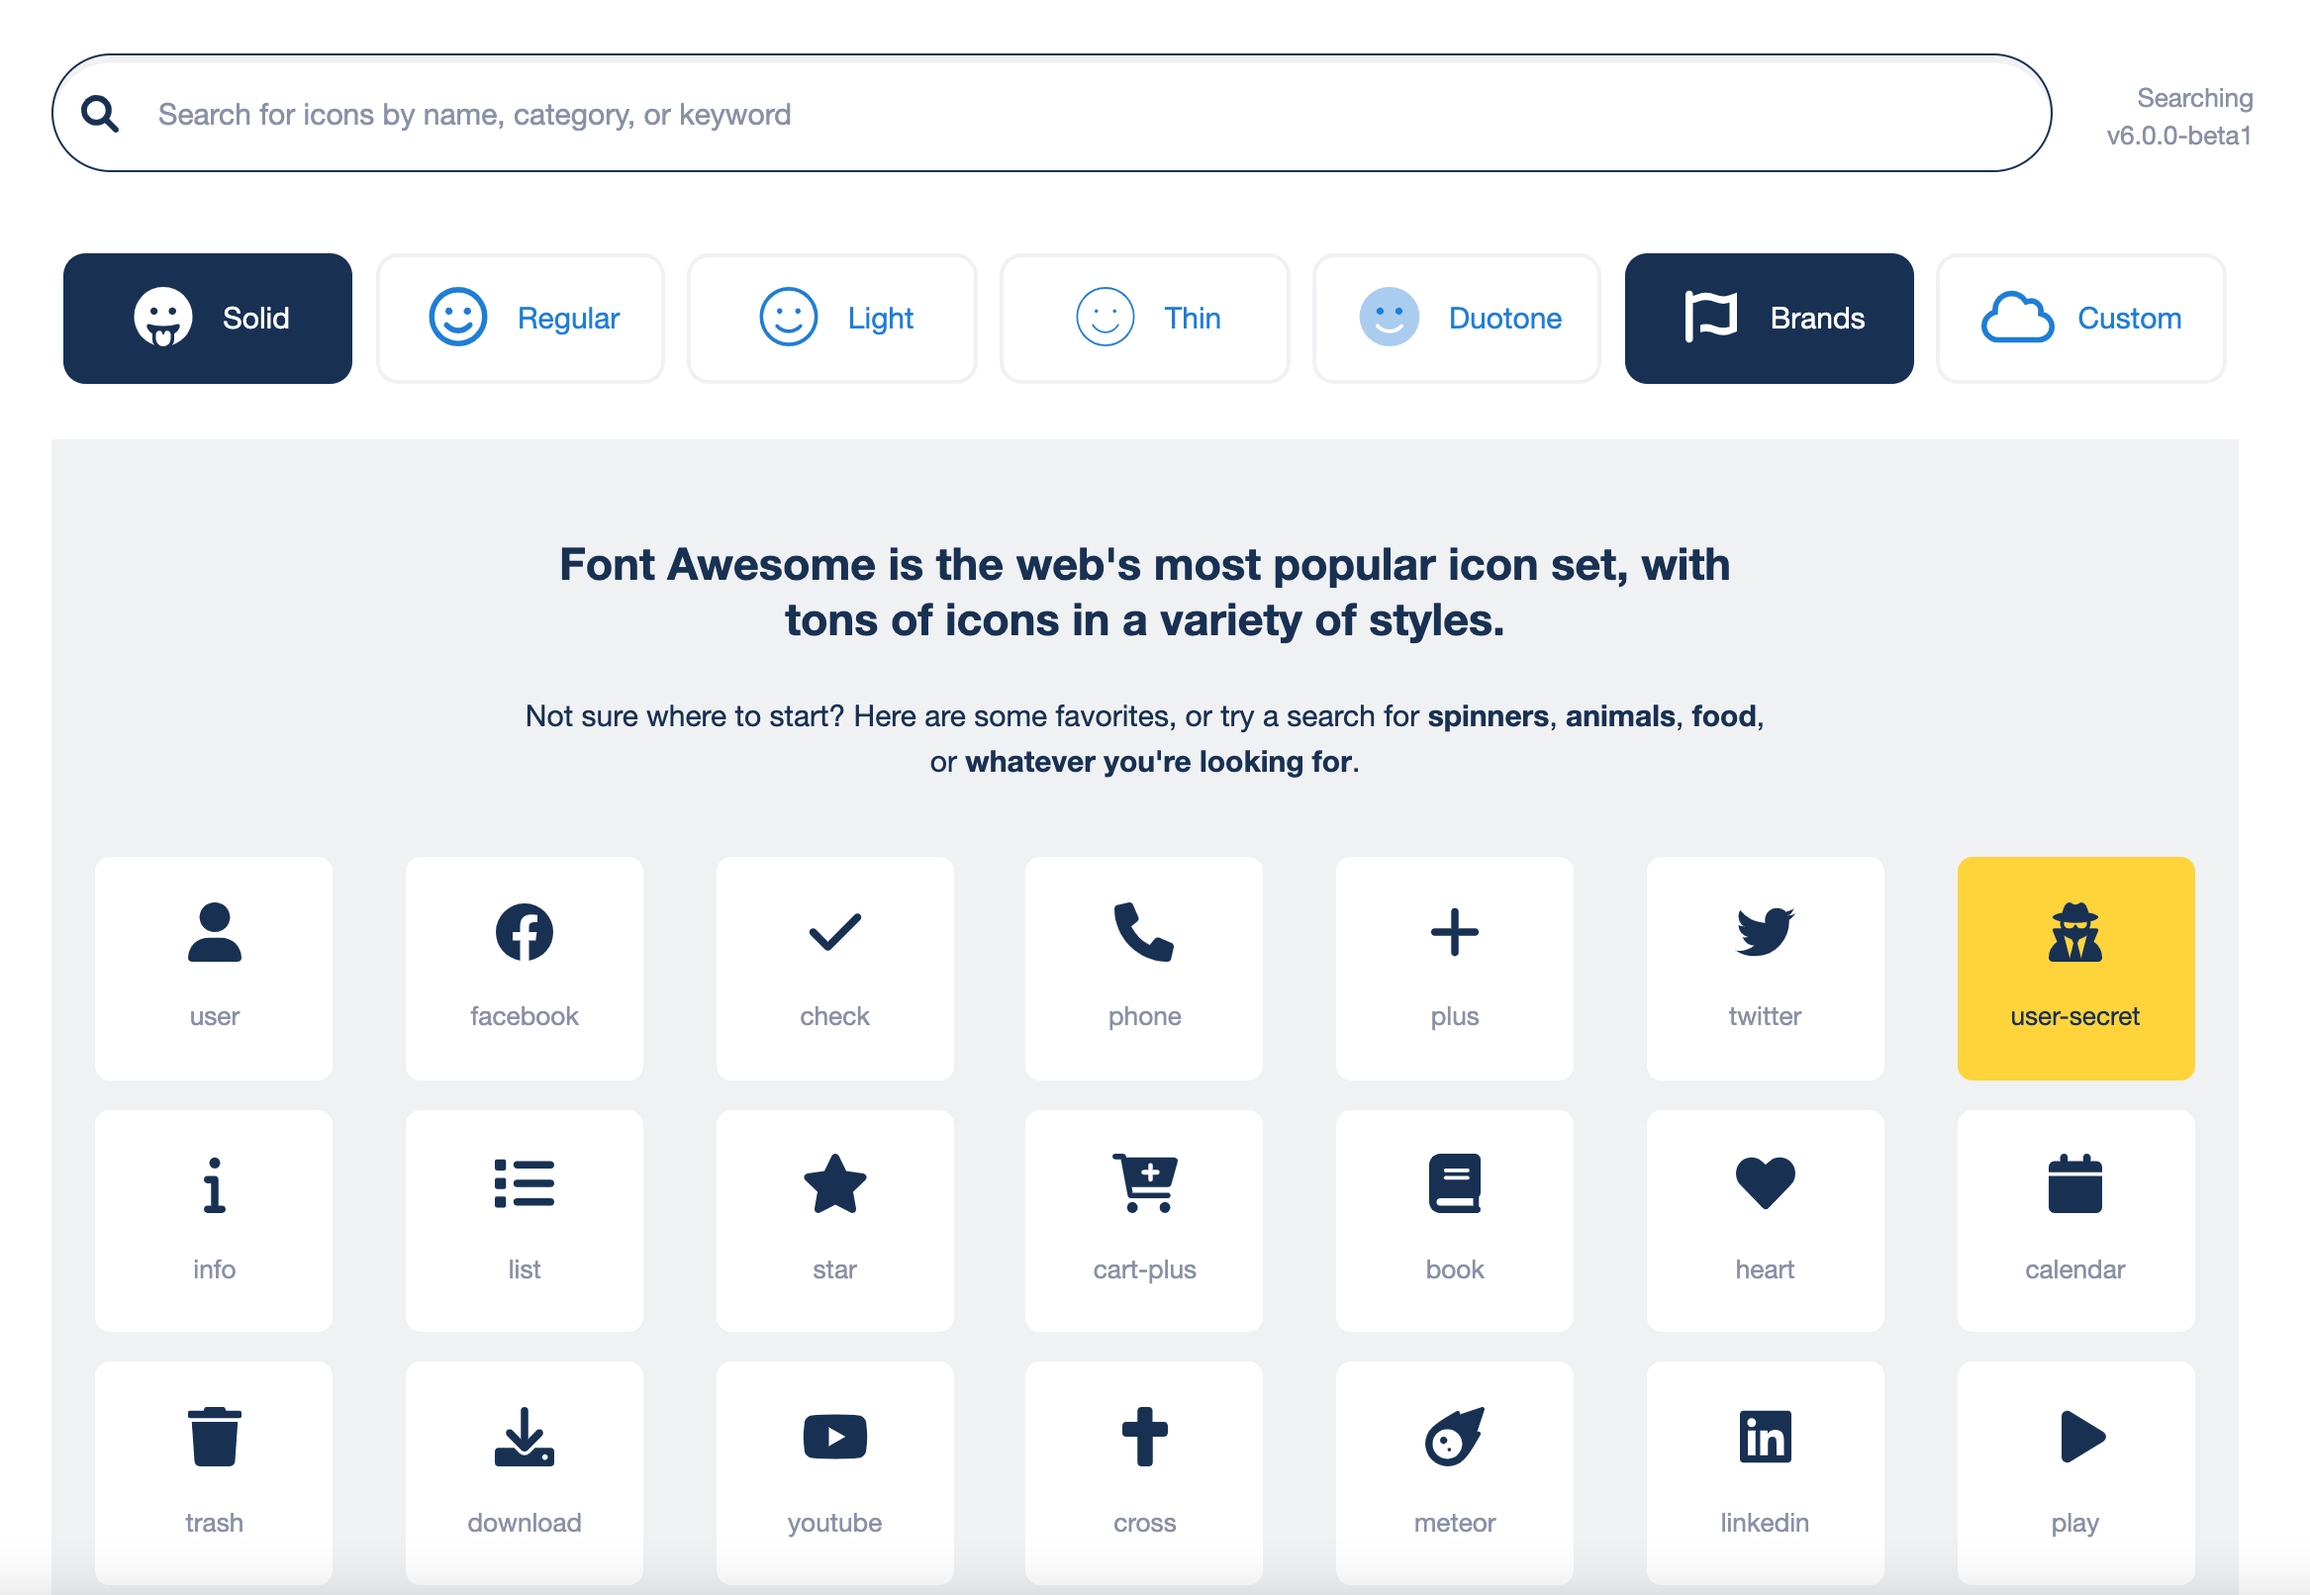
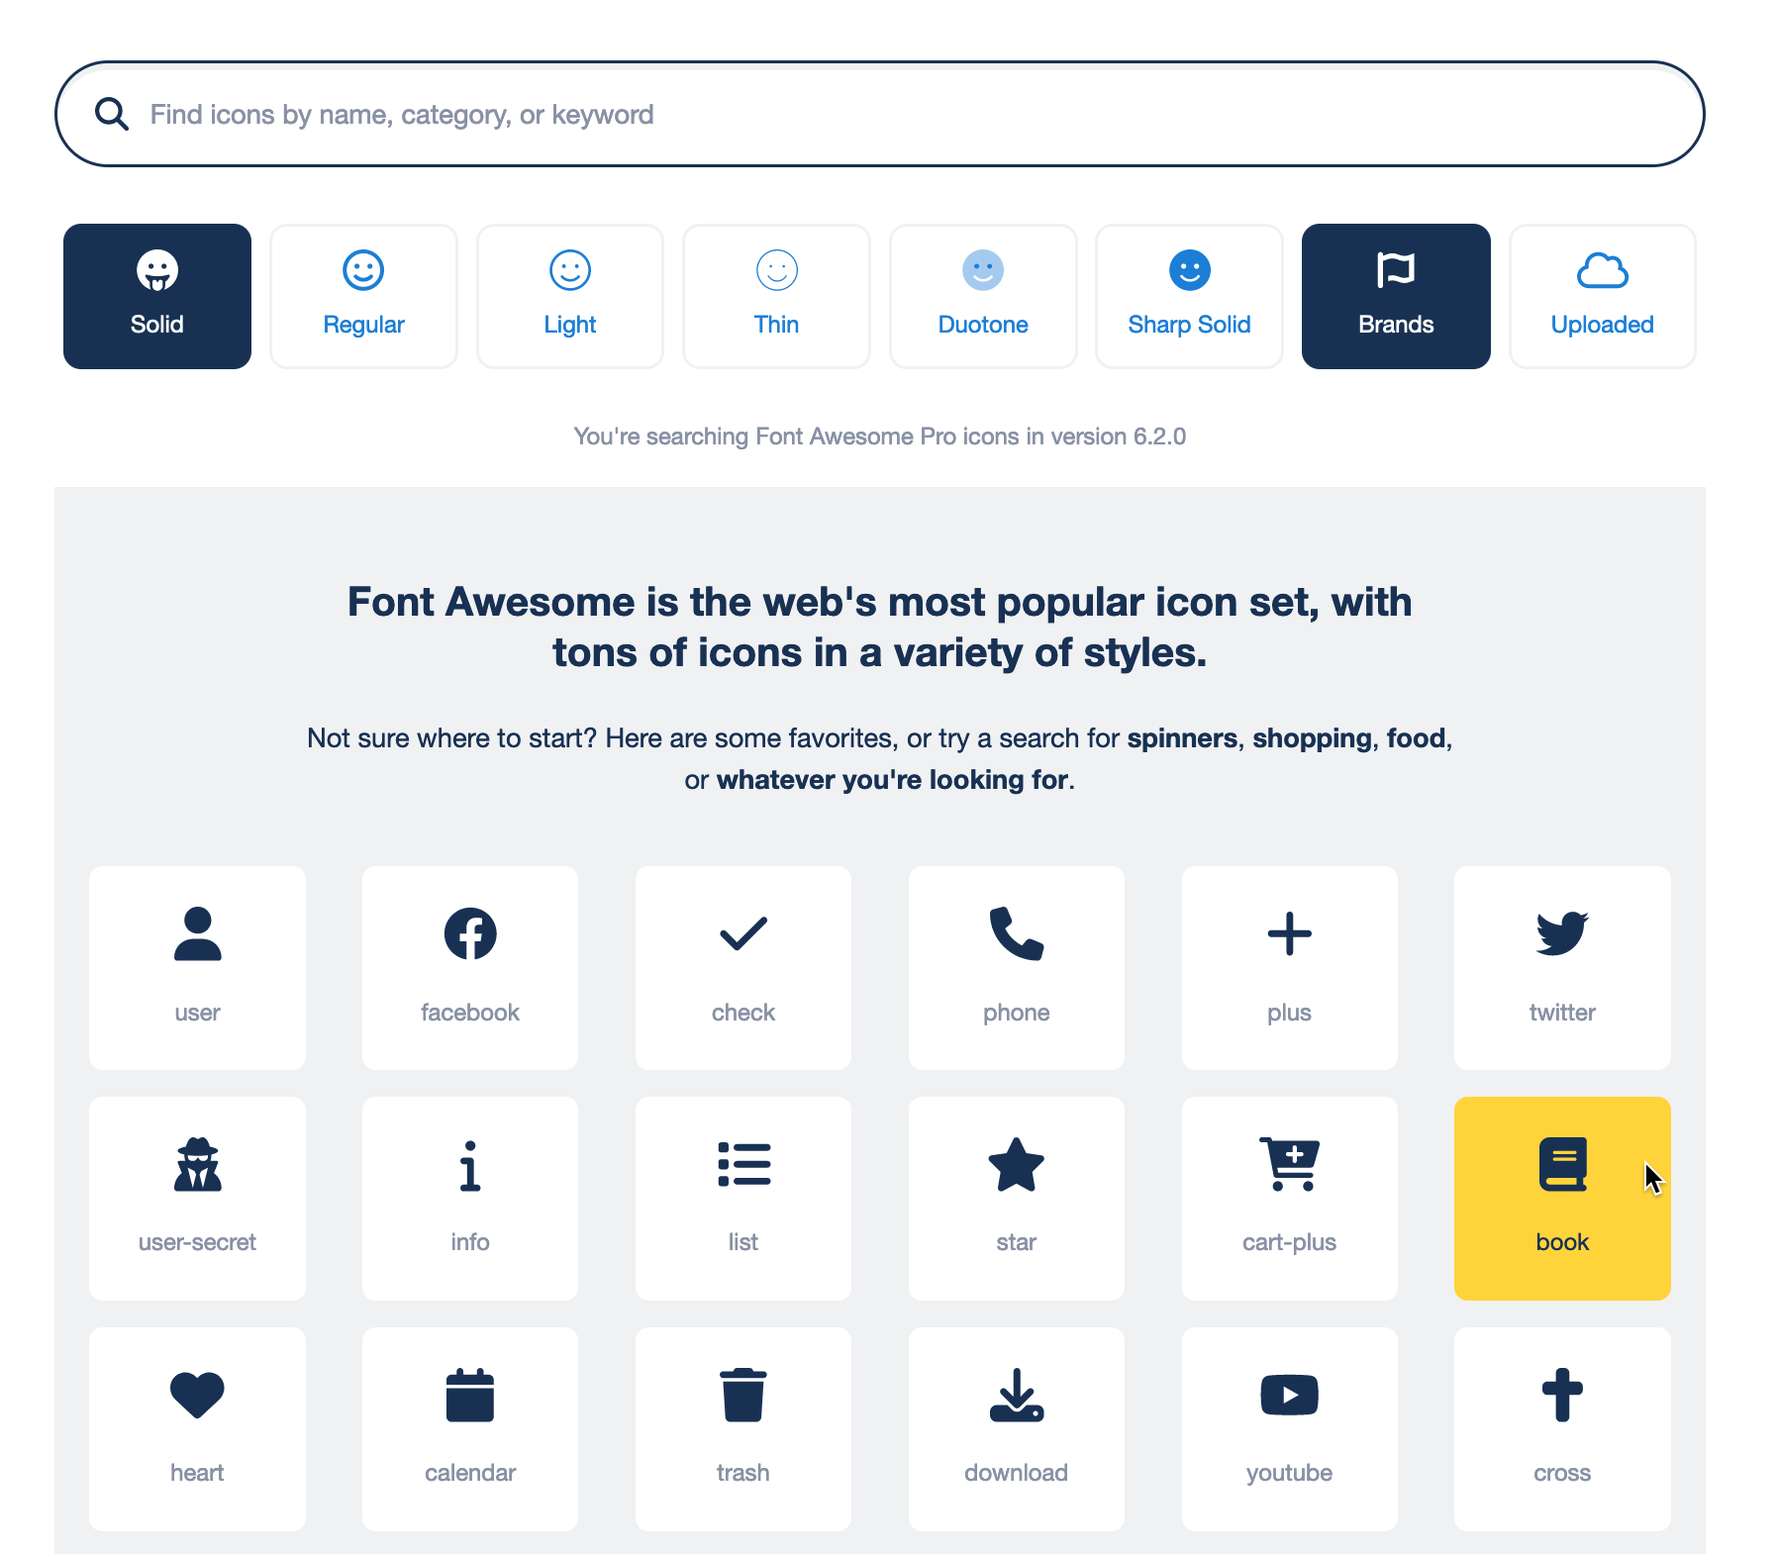
update master readme and screenshot for Sharp Solid

diff --git a/readme.md b/readme.md
@@ -25,7 +25,9 @@ In non-kit mode, only Font Awesome Free is available.
 When used with a kit, everything is available, according to that kit's configuration.
 - Font Awesome Pro
 - Font Awesome 6
-    Font Awesome 6 is currently in beta, but if the given kit is set to a version like `6.x` or `6.0.0-beta1`, the Icon Chooser knows what to do.
+
+    Including the Sharp Solid style, when using a Pro kit with Font Awesome 6.2.0 or newer!
+
 - Kit Icon Uploads: any icons uploaded to the kit are available in the chooser.
 
 A user configures their own kit on that kit's settings page on fontawesome.com and
